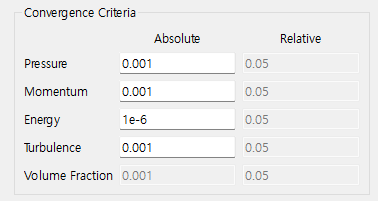
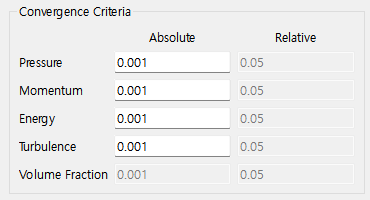
Tutorials Guide 사진 1차 수정

diff --git a/_posts/tutorials/2023-09-05-ProfileBC-post.md b/_posts/tutorials/2023-09-05-ProfileBC-post.md
@@ -24,7 +24,7 @@ category: tutorials
 
 ●  난류 모델 : 𝑘 − ε <br>
 
-●  밀도 : 1.225𝑘𝑔/𝑚^3 <br>
+●  밀도 : 1.225𝑘𝑔/㎥ <br>
 
 ●  점성 계수 : 1.79e-5𝑘𝑔/𝑚s <br>
 
@@ -38,7 +38,7 @@ category: tutorials
 
 ## 2) 격자
 격자는 주어진 OpenFoam의 polyMesh 폴더를 활용한다. <br>
-상단 탭에서 File - Load Mesh - OpenFoam 순서대로 클릭한다. <br>
+상단 탭에서 File - Load Mesh - OpenFOAM 순서대로 클릭한다. <br>
 msh_stl/profileBC 폴더의 polyMesh 폴더를 선택한다. <br>
 
 ## 3) 계산 조건
@@ -80,8 +80,8 @@ Cell Zone Conditions은 Default 조건을 사용한다.<br>
 ```Velocity Specification Method : Magnitude, Normal to Boundary```<br>
 ```Velocity Profile Type : Temporal Distribution```<br>
 ```Piecewise Linear : 0 : 0   1```<br>
-```		    1 : 0.1 2```<br>
-```		    2 : 0.2 1.5```<br>
+```		              1 : 0.1 2```<br>
+```		              2 : 0.2 1.5```<br>
 
 <p align='center'>
     <img src="https://github.com/nextfoam/baram-pages/raw/main/screenshots/profileBC/10.4.png"><br>
@@ -205,3 +205,21 @@ x1, y1, z1, T1 <br>
 x2, y2, z2, T2 <br>
 ... <br>
 x1, y1, z1, Tn <br>
+
+
+## 4) 후처리
+Paraview 아이콘을 눌러 Paraview를 실행한다.
+상단의 Solid Color를 T로 변경한다.
+
+<p align='center'>
+    <img src="https://github.com/nextfoam/baram-pages/raw/main/screenshots/profileBC/10.12.png"><br>
+    그림 11.12
+</p>
+
+<p align='center'>
+    <img src="https://github.com/nextfoam/baram-pages/raw/main/screenshots/profileBC/10.13.png"><br>
+    그림 11.13
+</p>
+
+이후, Set Range를 눌러 온도 범위를 340 - 350K으로 조정한다.
+그리고 상단의 Play 버튼을 눌러 시간에 따른 온도 변화를 확인한다.

diff --git a/_posts/tutorials/2023-09-05-CHT-post.md b/_posts/tutorials/2023-09-05-CHT-post.md
@@ -42,11 +42,11 @@ category: tutorials
 
 ●  유체의 비열 : 1,006J/kg <br>
 
-●  고체의 밀도 : 2,000𝑘𝑔/㎥ <br>
+●  고체의 밀도 : 7,850𝑘𝑔/㎥ <br>
 
-●  고체의 열전도도 : 2,000𝑘𝑔/㎥ <br>
+●  고체의 열전도도 : 24.3W/mK <br>
 
-●  고체의 비열 : 1,900J/kg <br>
+●  고체의 비열 : 450J/kg <br>
 
 BARAM을 실행하면 아래 과정을 따라서 case 파일을 만든다.<br>
 
@@ -173,11 +173,7 @@ Numerical Conditions은 다음과 같이 설정한다.<br>
 ●  Under-Relaxation Factors<br>
 Under-Relaxation Factors는 Default 값을 사용한다.<br>
 
-●  Convergence Criteria<br>
-```Energy : 1e-6```<br>
-```Pressure : 0.001```<br>
-```Momentum : 0.001```<br>
-```Turbulence : 0.001```<br>
+●  Convergence Criteria는 Default값을 사용한다.<br>
 
 <p align='center'>
     <img src="https://github.com/nextfoam/baram-pages/raw/main/screenshots/CHT/10.9.1.png"><br>

diff --git a/_posts/tutorials/2023-09-05-porousJump-post.md b/_posts/tutorials/2023-09-05-porousJump-post.md
@@ -201,3 +201,8 @@ Case Type을 Reconstructed Case로 변경한다.
 </p>
 
 이후, 상단의 Solid Color를 p_rgh로 변경하여 덕트 내부 압력 분포를 확인한다.
+
+<p align='center'>
+    <img src="https://github.com/nextfoam/baram-pages/raw/main/screenshots/porousJump/9.13.png"><br>
+    그림 9.13
+</p>
